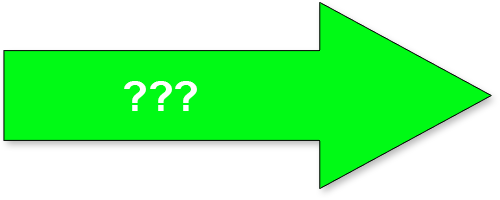
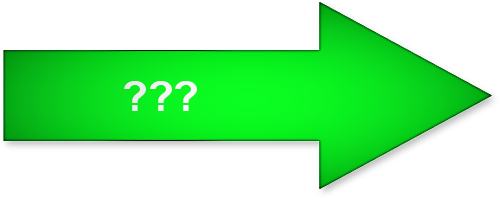
Added Overlay Div for answer and created Answer Function on Spin... Everything now works. Next: CSS and Design.

Changed region(s): [[0.39, 0.0, 0.99, 0.96], [0.0, 0.24, 0.36, 0.72]]

diff --git a/app.js b/app.js
@@ -26,8 +26,9 @@ addButton.onclick = function (){
 //******** Creates <li> inside #circle <ul> on addButton ****
     var sliceHolder = document.getElementById("circle"); // circle UL list
     var sliceItem = document.createElement("li");
-    sliceItem.innerHTML = taskInput.value;
     sliceHolder.appendChild(sliceItem);
+    sliceItem.innerHTML = taskInput.value;
+
 
     //Random Pastel RGB Background for slice Items
     var RGB = 'rgb(' + (Math.floor(Math.random() * 157)+100) + ',' + (Math.floor(Math.random() * 157)+100) + ',' + (Math.floor(Math.random() * 157)+100) + ')';
@@ -75,7 +76,7 @@ addButton.onclick = function (){
       for(var i=0; i<sliceArray.length; i++){
         var nth = sliceArray[i];
         nth.style.webkitTransform = "rotateZ("+ degree*i +"deg) translate(200px)";
-//If too many list items... change size to keep from overlapping. 
+//If too many list items... change size to keep from overlapping.
         if(sliceArray.length > 14){
           var nth = sliceArray[i];
           nth.style.width = "40px";
@@ -120,14 +121,46 @@ var spinButton = document.getElementById("spin");
       var tl = new TimelineMax({paused:true});
       tl.to(spinButton ,2,{rotation:2160});
       tl.to(spinButton,1,{scale:.5}, "-=2");
-      tl.to(spinButton,1,{scale:1.3}, "-=1");
+      tl.to(spinButton,1,{scale:1}, "-=1");
+      // tl.to(spinButton,1,{rotation:answer});
+
       //var random# between 1 and list length
       // answer = random# * degrees
       // tl.to rotateX:answer
 
 spinButton.onclick = function(){
-  tl.play(0);//plays from start
-  //Overlay body with lightbox.
-  //Show Answer in Overlay.
-  console.log(degree);
+  var randomItemIndex = (Math.floor(Math.random() * circleArray.length));
+  var answerD = degree * randomItemIndex;
+
+  var x = randomItemIndex;
+  var y = sliceArray[x];
+  var z = y.innerHTML;
+
+  var answerDiv = document.getElementById("answer");
+  if (z == "") {answerDiv.innerHTML = "'Blank Entry'";}
+  else{answerDiv.innerHTML = z;}
+
+  function displayAnswer(){
+    answerDiv.style.opacity = ".9";
+    answerDiv.style.width = "100vw";
+    answerDiv.style.height = "100vh";
+
+    answerDiv.onclick = function(){
+      answerDiv.style.opacity = "0";
+      answerDiv.style.width = "0px";
+      answerDiv.style.height = "0px";
+    };
+  }
+
+  //Animation Sequence
+  var tl = new TimelineMax({paused:true,onComplete:displayAnswer});
+  tl.to(spinButton ,2,{rotation:2160});
+  tl.to(spinButton,1,{scale:.5}, "-=2");
+  tl.to(spinButton,1,{scale:1}, "-=1");
+  tl.to(spinButton,1,{rotation:answerD},"-=1");
+  tl.play(0);
+
+  answerD = 0;
+  console.log(z)
+  return z;
 };

diff --git a/index.html b/index.html
@@ -16,11 +16,9 @@
 <div class="box2">
   <div id="listItmes">
        <label class="addLabel" for="new-place"> Add Restaurants </label><input class="labelBox" id="new-place" type="text"><button id="addButton">Add</button>
-
     <h3 class="listTitle">Restaurants:</h3>
     <ol id="restList">
     </ol>
-
   </div>
 </div>
 
@@ -28,13 +26,15 @@
   <div id="BoxContainer">
       <ul id="circle">
       </ul>
-      <button id="spin" class="arrow_box"> <img src="images/arrow_green2.png"></button>
-</div>
-
+      <button id="spin" class="arrow_box"> <img src="images/arrow_green3.png"></button>
+    </div>
   </div>
-</div>
 
-</div>
+</div><!--Wrapper -->
+
+<div id=answer></div>
+
+
   <script src="http://cdnjs.cloudflare.com/ajax/libs/gsap/1.18.4/TweenMax.min.js"></script>
   <script src="app.js"></script>
 

diff --git a/piechart.css b/piechart.css
@@ -32,21 +32,6 @@
   height: 100px;
 }
 
-
-/*.arrow_box::before {
-	left: 100%;
-	top: 50%;
-	border: solid transparent;
-	content: " ";
-	height: 0;
-	width: 0;
-	position: absolute;
-	pointer-events: none;
-	border-left-color: #0C0;
-	border-width: 30px;
-	margin-top: -30px;
-}*/
-
 #spin:hover{
  transform:scale(1.1);
 }
@@ -82,6 +67,25 @@
   display:flex;
   justify-content: center;
   align-items: center;
+}
+
+#answer {
+width:0px;
+height:0px;
+text-align: center;
+background-color:rgba(0, 0, 0, 0.95);
+z-index: 2000;
+color:white;
+font-size:4em;
+opacity:0;
+clear:both;
+position:fixed;
+top:0;
+left:0;
+display:flex;
+justify-content:center;
+align-content: center;
+align-items:center;
 }
 
 /* Sample Degree Transform for Javascript Reference
